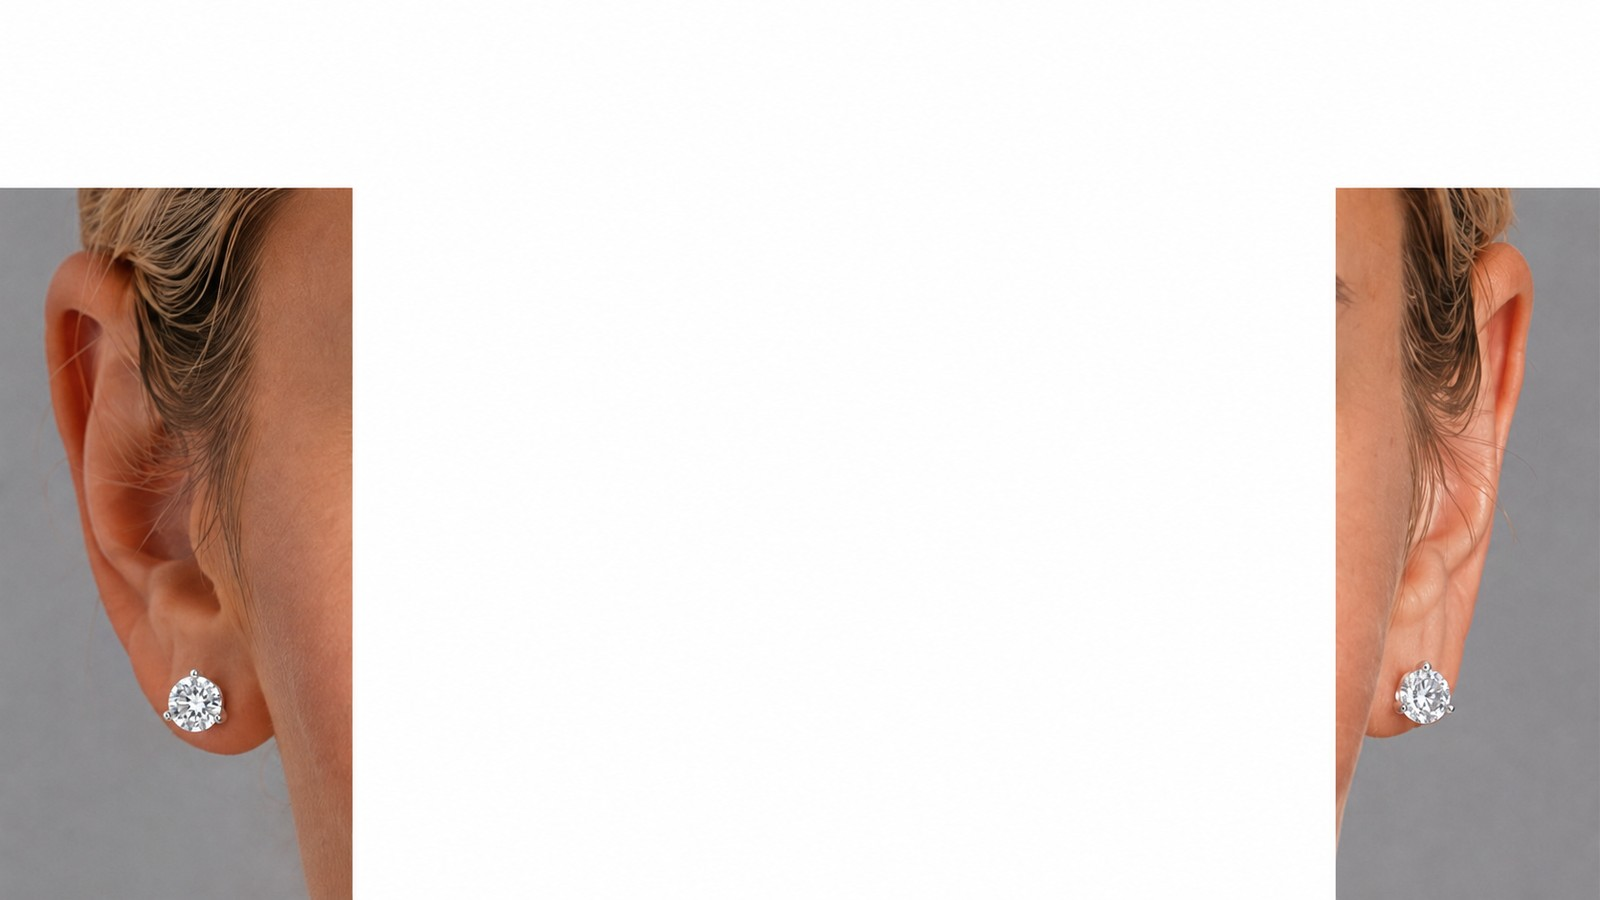
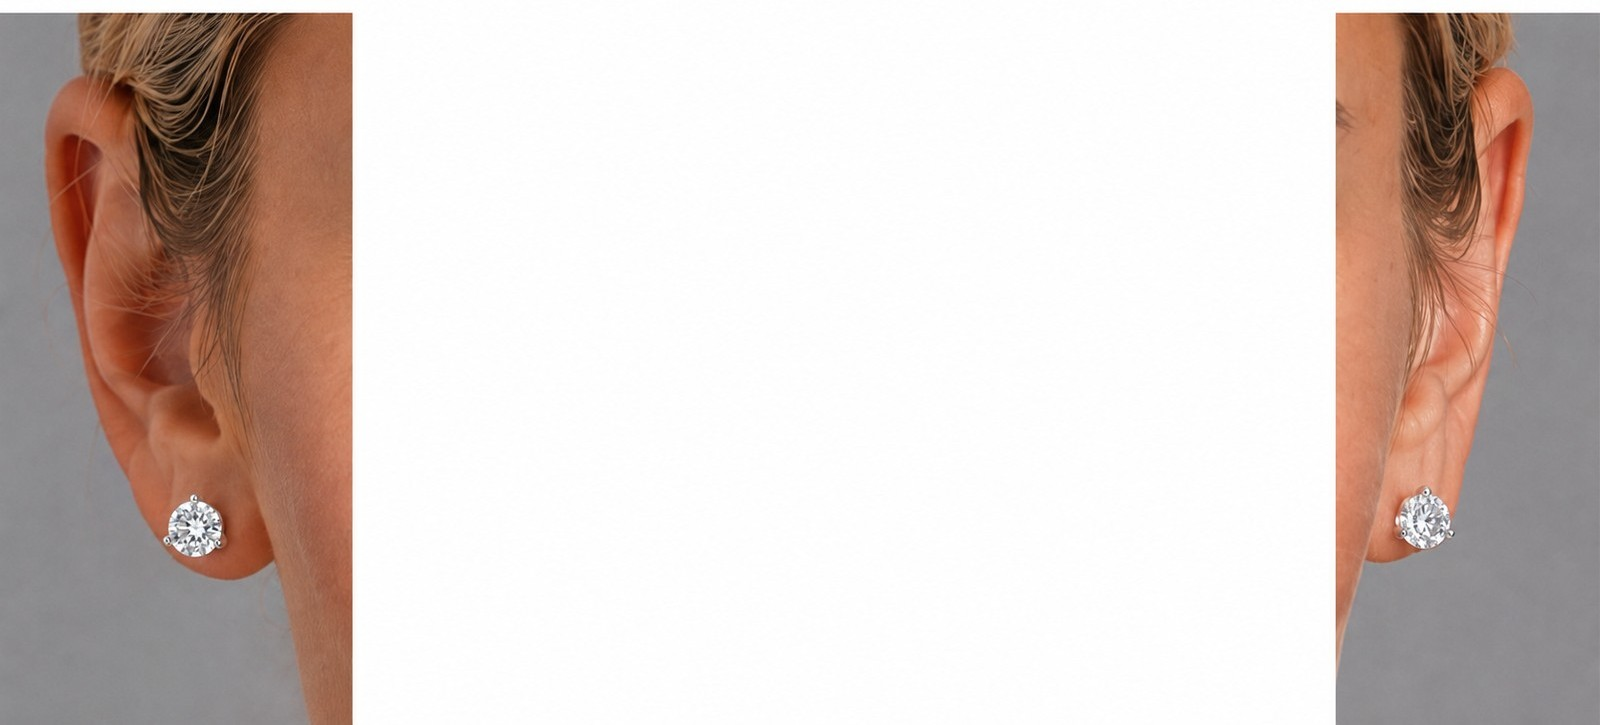
Add files via upload

Changed region(s): [[0.0, 0.0, 0.2188, 0.8497], [0.8125, 0.0, 1.0, 0.8497], [0.8125, 0.8497, 0.8438, 0.9103]]

diff --git a/jane-jewels-fall-creative.html b/jane-jewels-fall-creative.html
@@ -96,7 +96,7 @@
   .fail-frame img{ width:100%; height:100%; object-fit:cover; }
   .fail-frame.wide{ aspect-ratio:3/2; }
   .fail-frame.tall{ aspect-ratio:9/16; max-width:280px; margin:0 auto; }
-  .fail-frame.master{ aspect-ratio:16/9; }
+  .fail-frame.master{ aspect-ratio:1600/725; }
   .fail-frame.contain img{ object-fit:contain; background:#fff; }
   .fail-label{
     padding:10px 14px; font-size:12.5px; color:var(--ink-soft);
